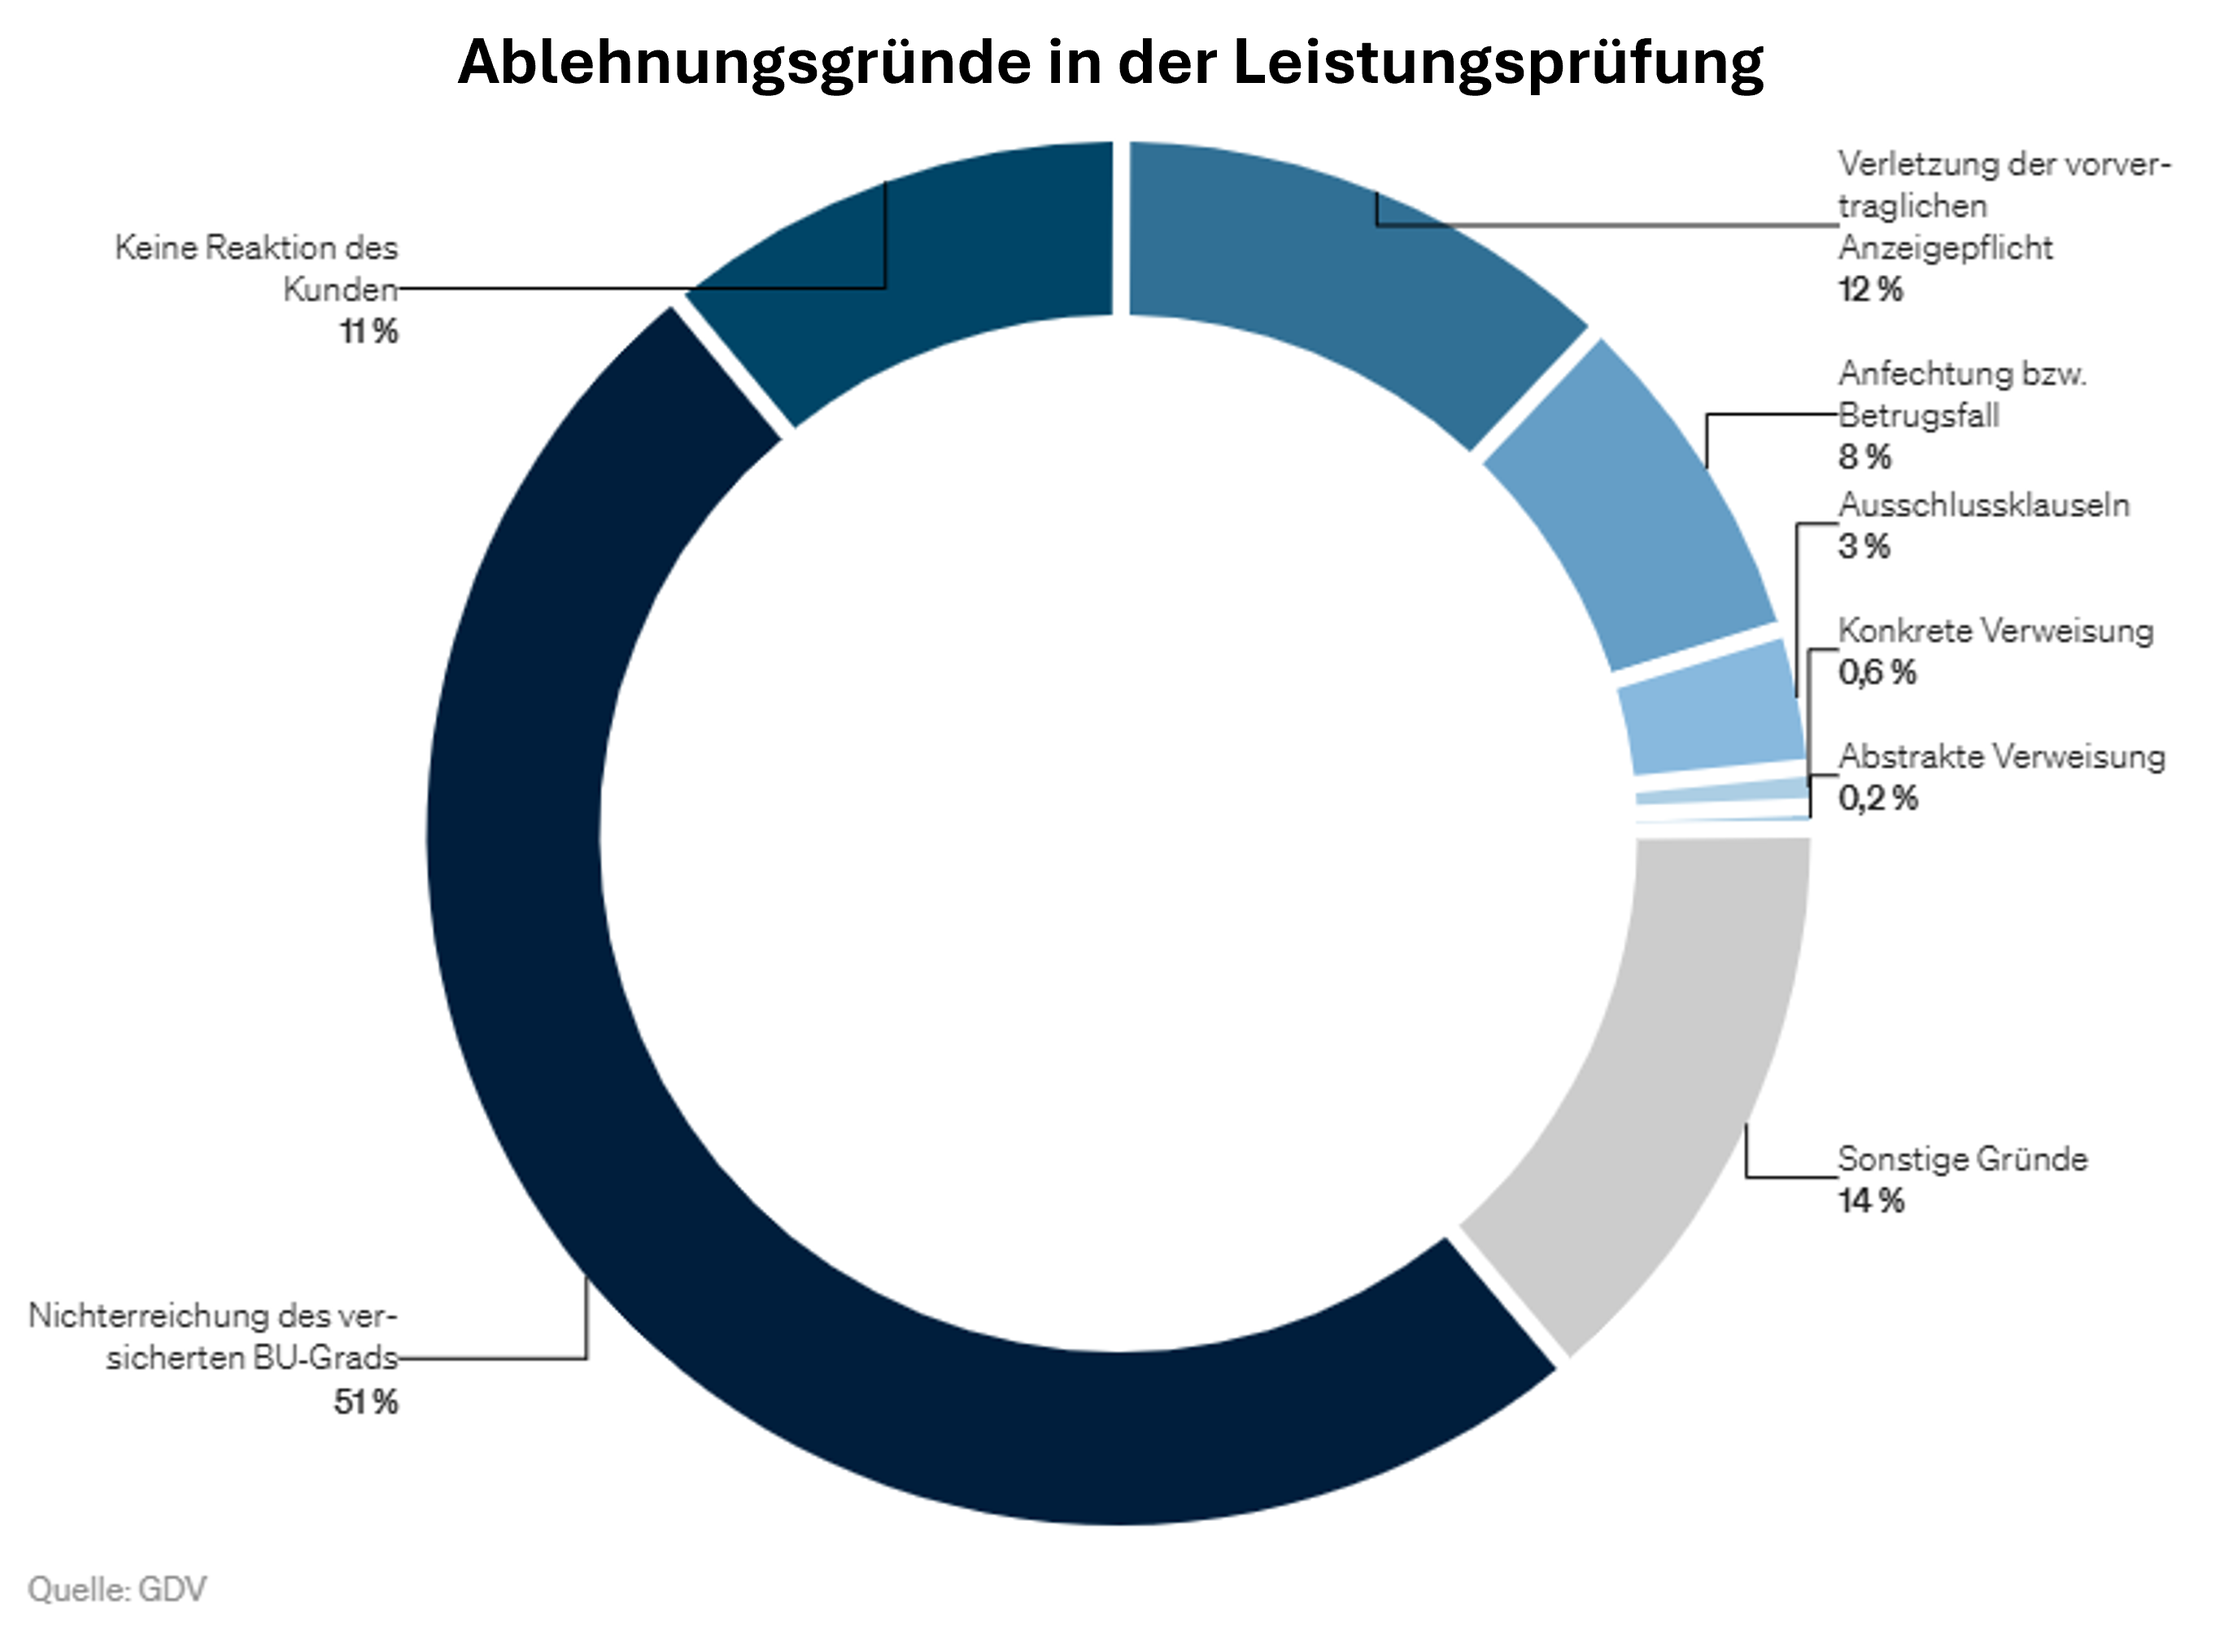
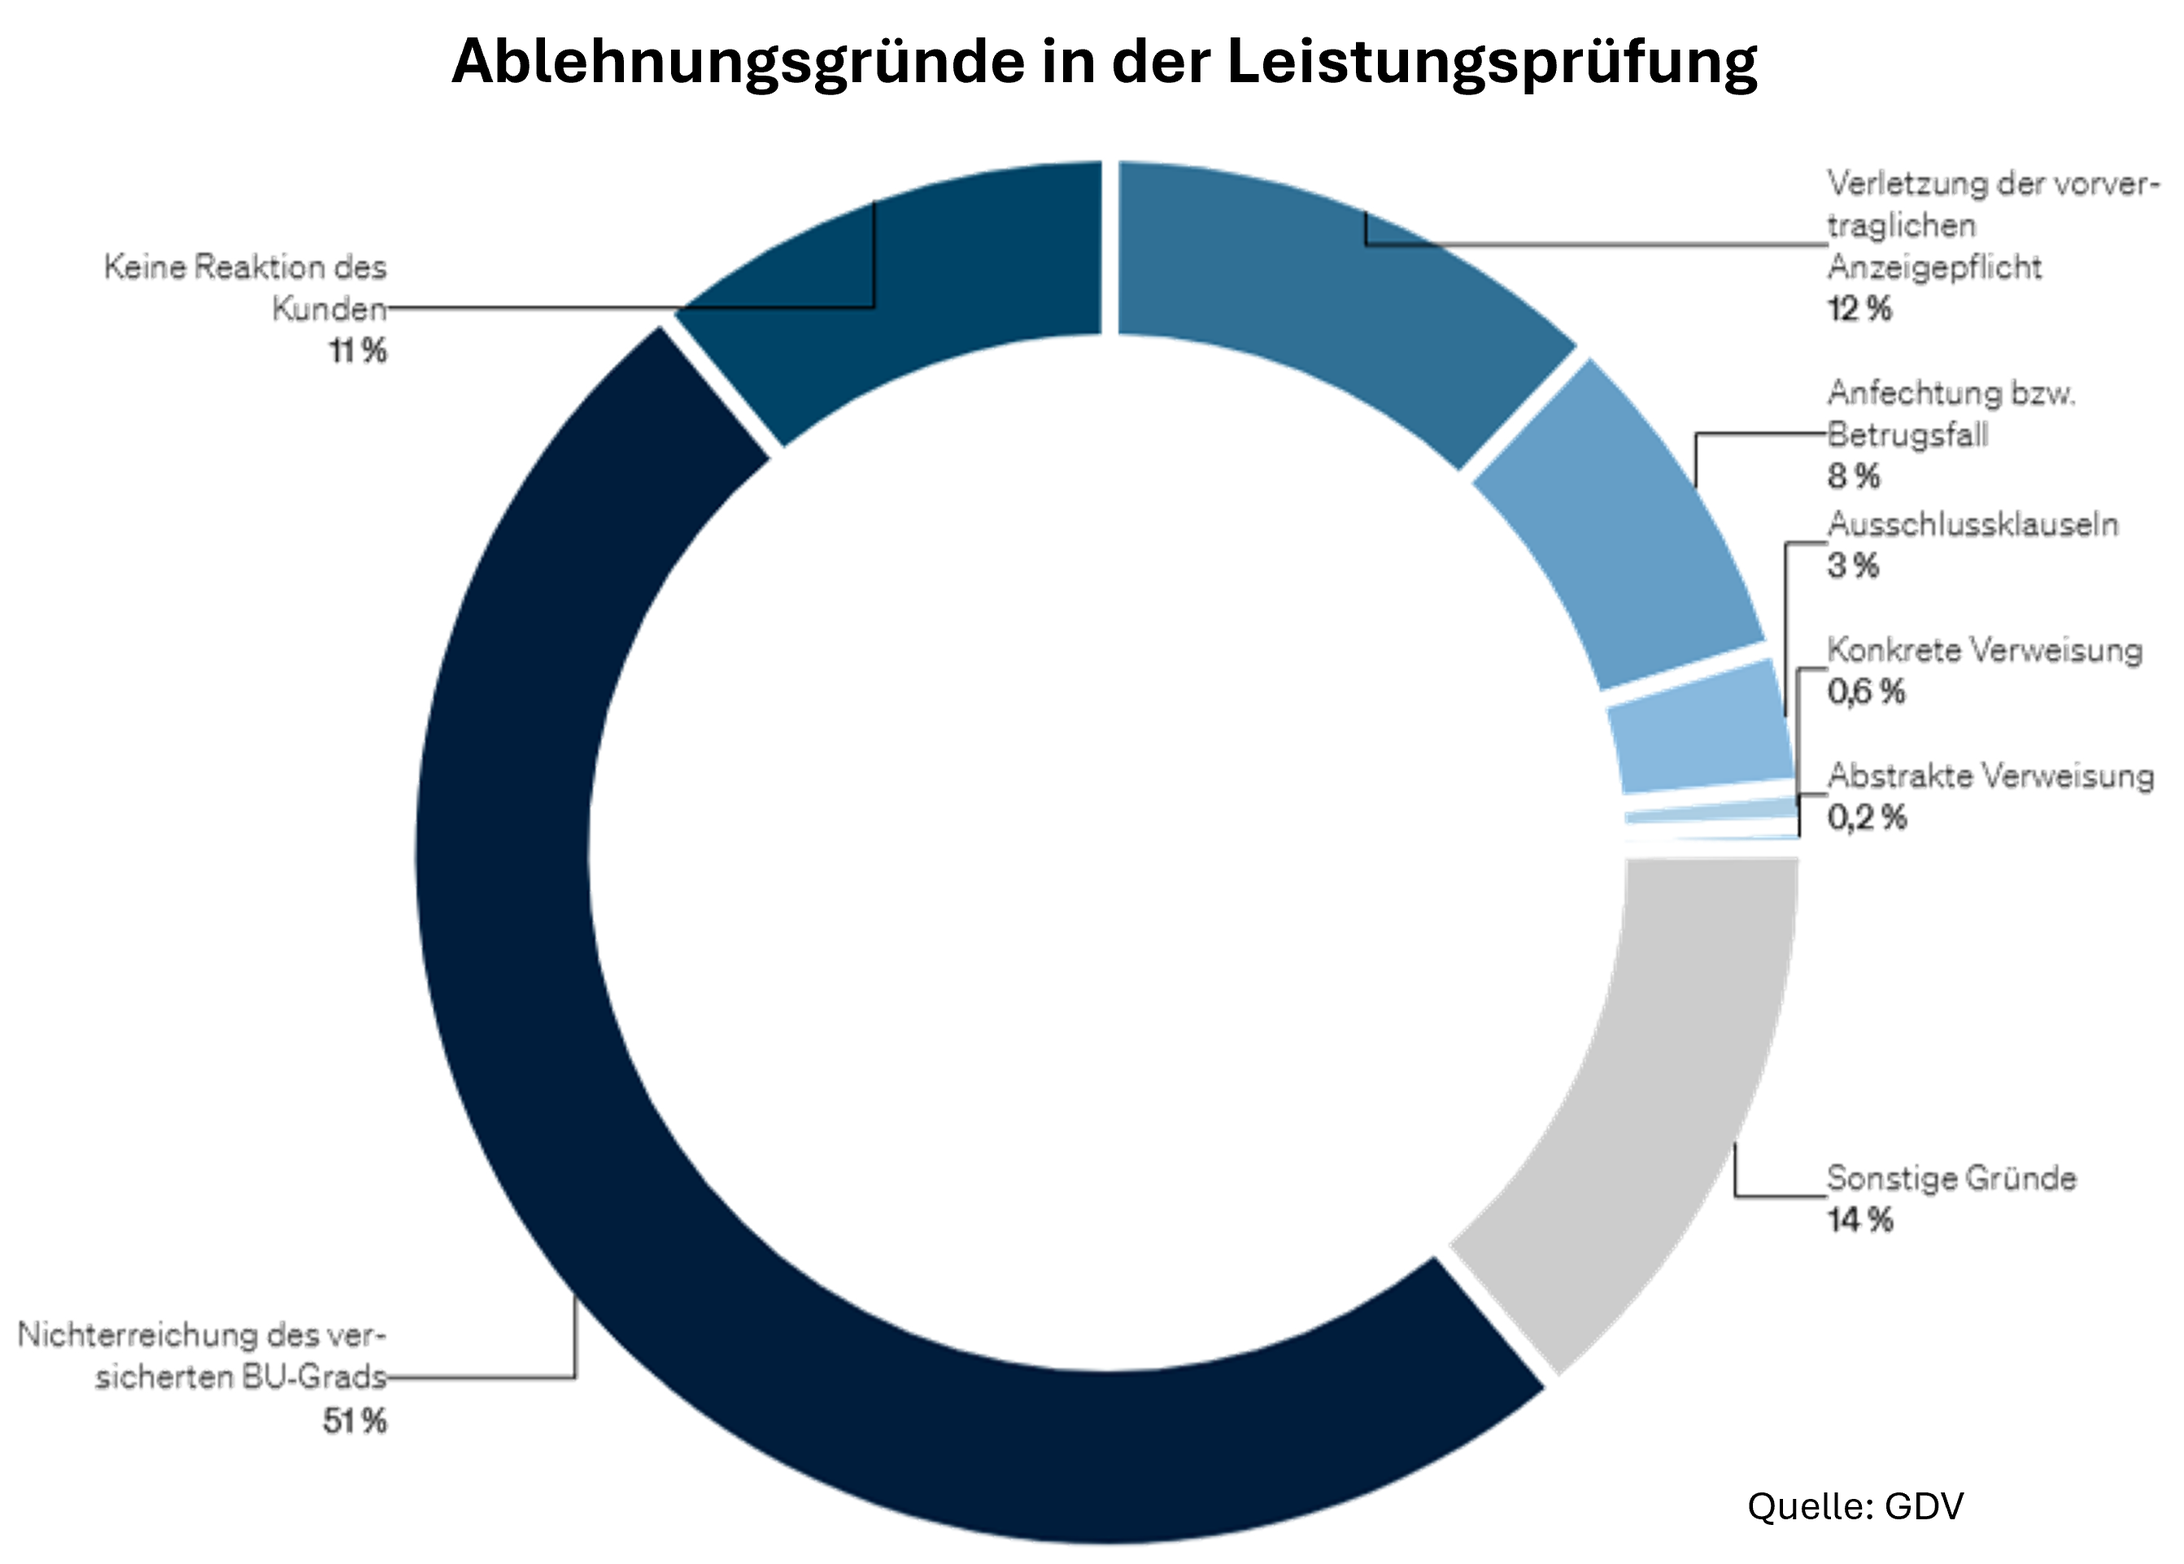
feat: refined images, in particular Leistungspruefung_BU.png, removed white background in all three.

diff --git a/bu.html b/bu.html
@@ -170,7 +170,7 @@
         <p>
             Jeder 4. wird in seinem Arbeitsleben zumindest vorübergehend berufsunfähig. Dabei führen Unfälle in nur knapp 10 % der Fälle zu einer Berufsunfähigkeit &ndash; in 90 % aller Fälle sind Krankheiten die Ursache. Die Hauptursachen sind Erkrankungen der Psyche/ des Nervensystems, des Bewegungsapparats und Krebs (<a href="https://www.gdv.de/gdv/themen/leben/haeufigste-ursachen-fuer-berufs-und-erwerbsunfaehigkeit-151920">GDV 2022</a>).
         </p>
-        <div class="mt-2 mb-4"><img src="img/Ursachen_BU_2022.png" alt="Ursachen BU"></div>
+        <div class="mt-2 mb-4"><img src="img/Ursachen_BU_2022.png" alt="Ursachen BU" style="width: 75%; height: auto"></div>
 
         <h2 class="text-3xl font-bold text-gray-900 mb-6">Eine private Absicherung schützt</h2>
         <p>Ob in der Arztpraxis, auf der Baustelle oder im Büro: 25% der Deutschen geraten im Laufe ihres Berufslebens in eine Situation, in der sie nicht mehr in der Lage sind, ihren Beruf auszuüben (<a href="https://www.gdv.de/gdv/themen/leben/7-fakten-zur-berufsunfaehigkeitsversicherung-34338">GDV</a>). Dabei hat nur jede(r) vierte bis fünfte Berufstätige eine private Berufsunfähigkeitsversicherung abgeschlossen und damit ein relativ hohes Risiko, das zu häufig noch unterschätzt wird.</p>
@@ -252,8 +252,8 @@
       
         <h2 class="text-3xl font-semibold mb-3">Leistungsprüfung in der BU</h2>
         80 Prozent aller Anträge auf eine Berufsunfähigkeitsrente werden bewilligt, das hat 2022 eine Umfrage des GDV unter seinen Mitgliedsunternehmen ergeben (Graphik 1). Lehnen Versicherer einen Leistungsantrag ab, hat das vielfältige Ursachen, siehe zweite Graphik. (<a href="https://www.gdv.de/gdv/themen/leben/7-fakten-zur-berufsunfaehigkeitsversicherung-34338">GDV 2022</a>)
-        <div class="mt-2 mb-4"><img src="img/Leistungspruefung_BU.png" alt="Leistungsprüfung BU">
-            <img src="img/Ablehnungsgruende_Leistungspruefung.png" alt="Ablehnungsgründe Leistungsprüfung"></div>
+        <div class="mt-2 mb-4"><img src="img/Leistungspruefung_BU.png" alt="Leistungsprüfung BU" style="width: 75%; height: auto">
+            <img src="img/Ablehnungsgruende_Leistungspruefung.png" alt="Ablehnungsgründe Leistungsprüfung" style="width: 65%; height: auto"></div>
 
 
     </div>
